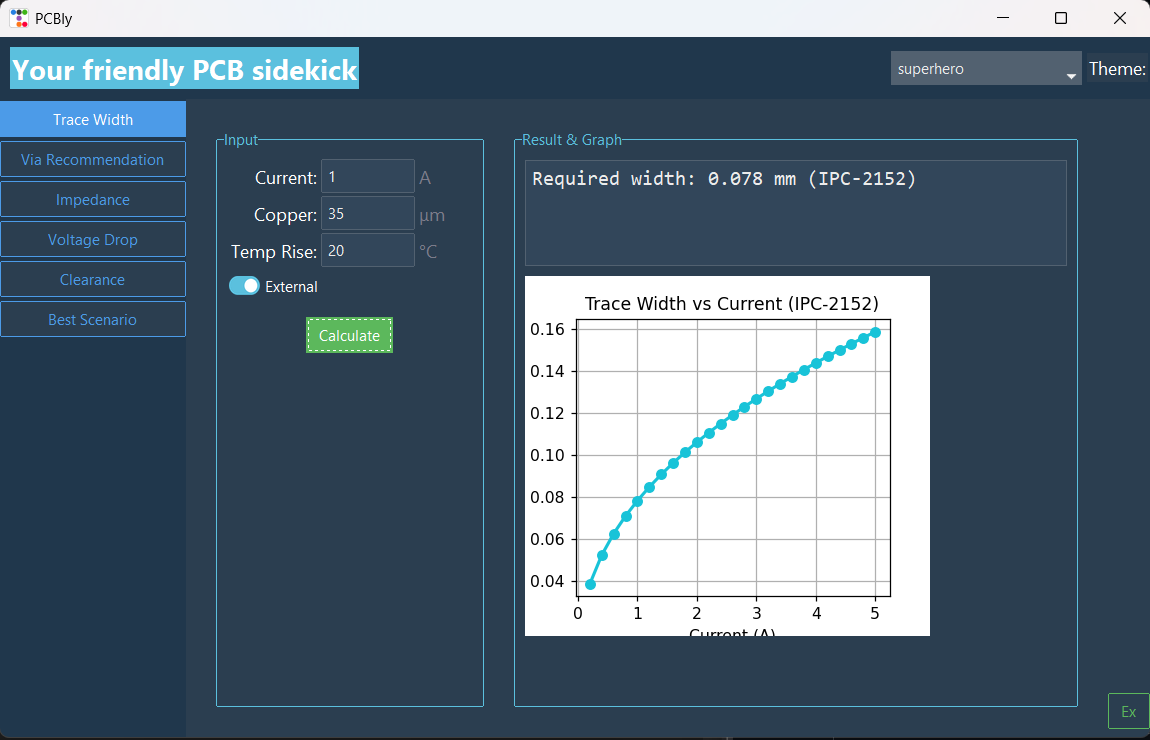
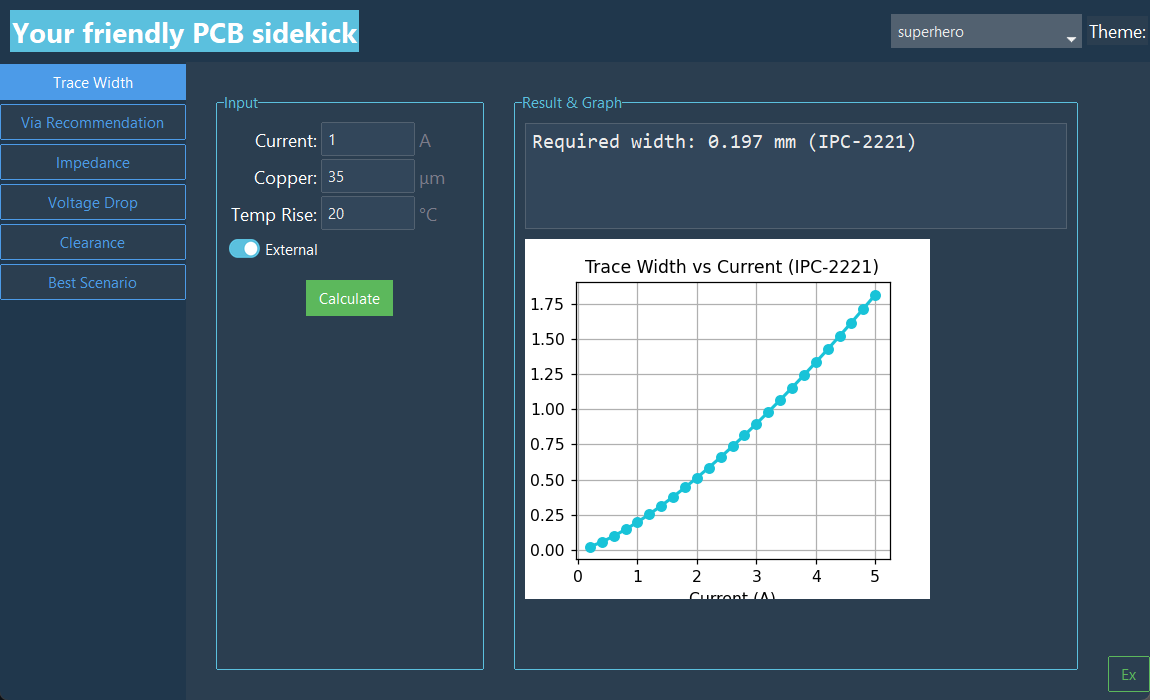
Fix Clearance crash on default location; update screenshots
The Location dropdown started at 'external_uncoated', which is not one of its labels, so pressing Calculate before touching it raised IndexError. It now starts at 'External Uncoated' and accepts either form. Screenshots for trace width, via and best-scenario retaken with the corrected IPC-2221 values.

diff --git a/PCBLy/main.py b/PCBLy/main.py
@@ -405,7 +405,7 @@ class PCBToolkitGUI(tb.Window):
         ent.grid(row=0,column=1,padx=3)
         ToolTip(ent, "Enter maximum voltage between conductors.")
         tb.Label(group, text="Location:", font=("Segoe UI", 11)).grid(row=1,column=0,sticky="e",pady=3)
-        self.clr_loc = tb.StringVar(value="external_uncoated")
+        self.clr_loc = tb.StringVar(value="External Uncoated")
         opts=[("Internal","internal"),("External Uncoated","external_uncoated"),("External Coated","external_coated")]
         comb = tb.Combobox(group, textvariable=self.clr_loc, values=[o[0] for o in opts], state="readonly", width=19)
         comb.grid(row=1,column=1,padx=3)
@@ -422,7 +422,7 @@ class PCBToolkitGUI(tb.Window):
         v = float(self.clr_var1.get())
         locval = self.clr_loc.get()
         opts=[("Internal","internal"),("External Uncoated","external_uncoated"),("External Coated","external_coated")]
-        loc = [l for n,l in opts if n==locval][0]
+        loc = next((l for n, l in opts if locval in (n, l)), "external_uncoated")
         val = PCBModel.clearance_ipc2221(v, loc)
         self.clr_result.config(state="normal")
         self.clr_result.delete("1.0","end")
